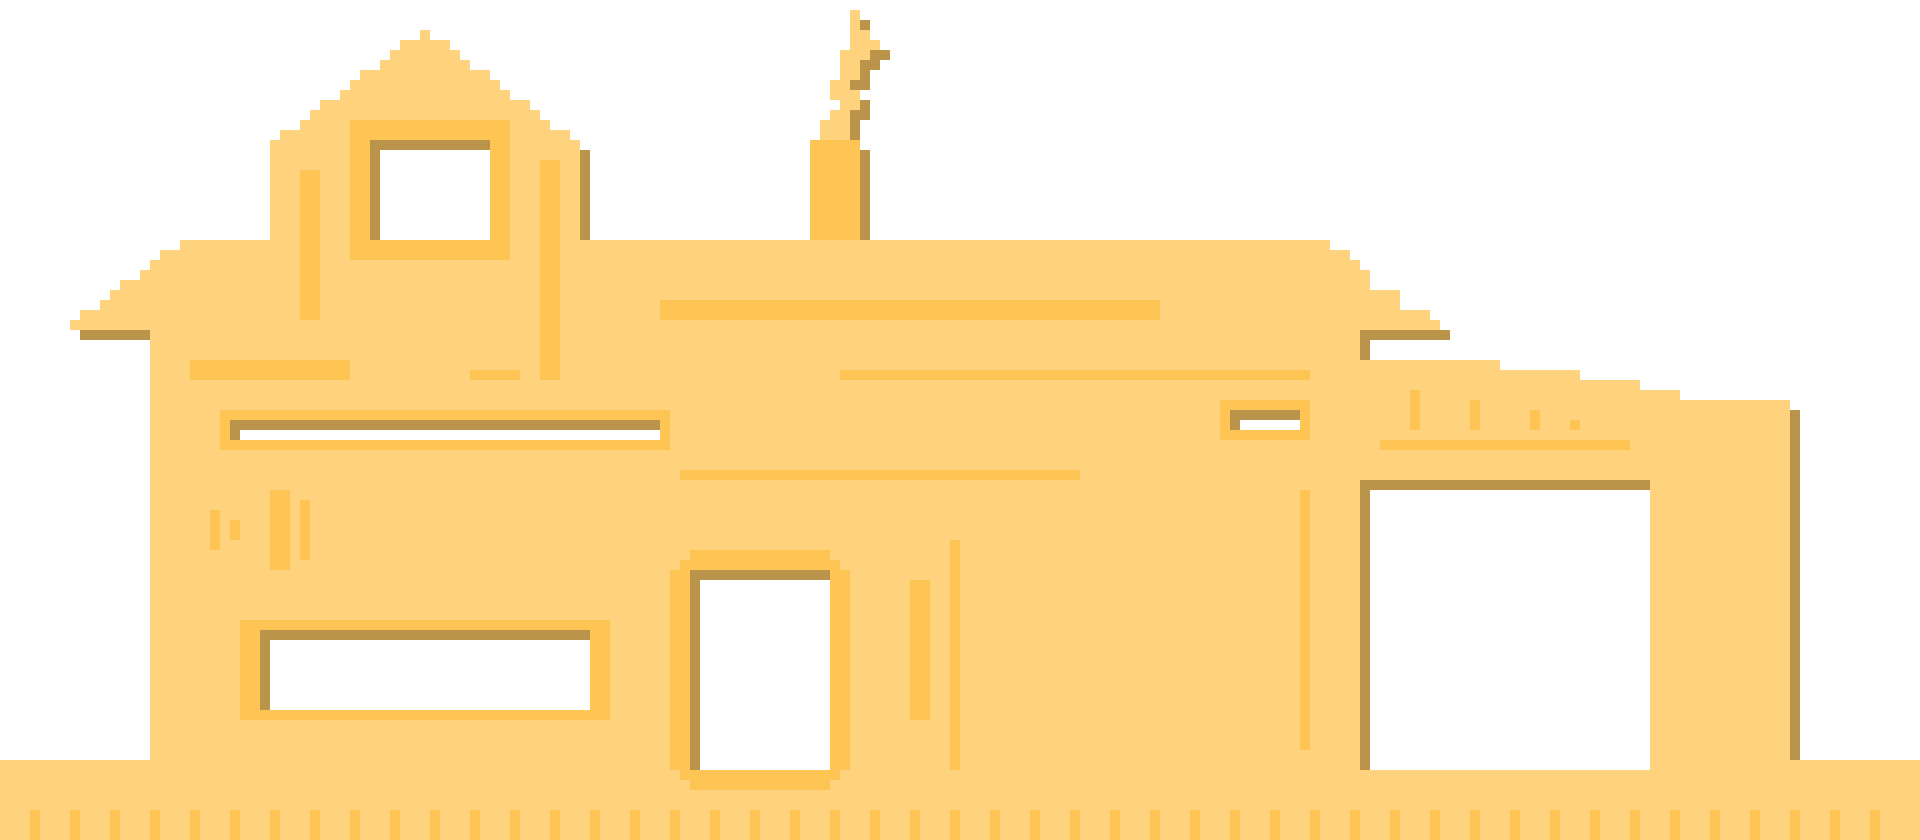
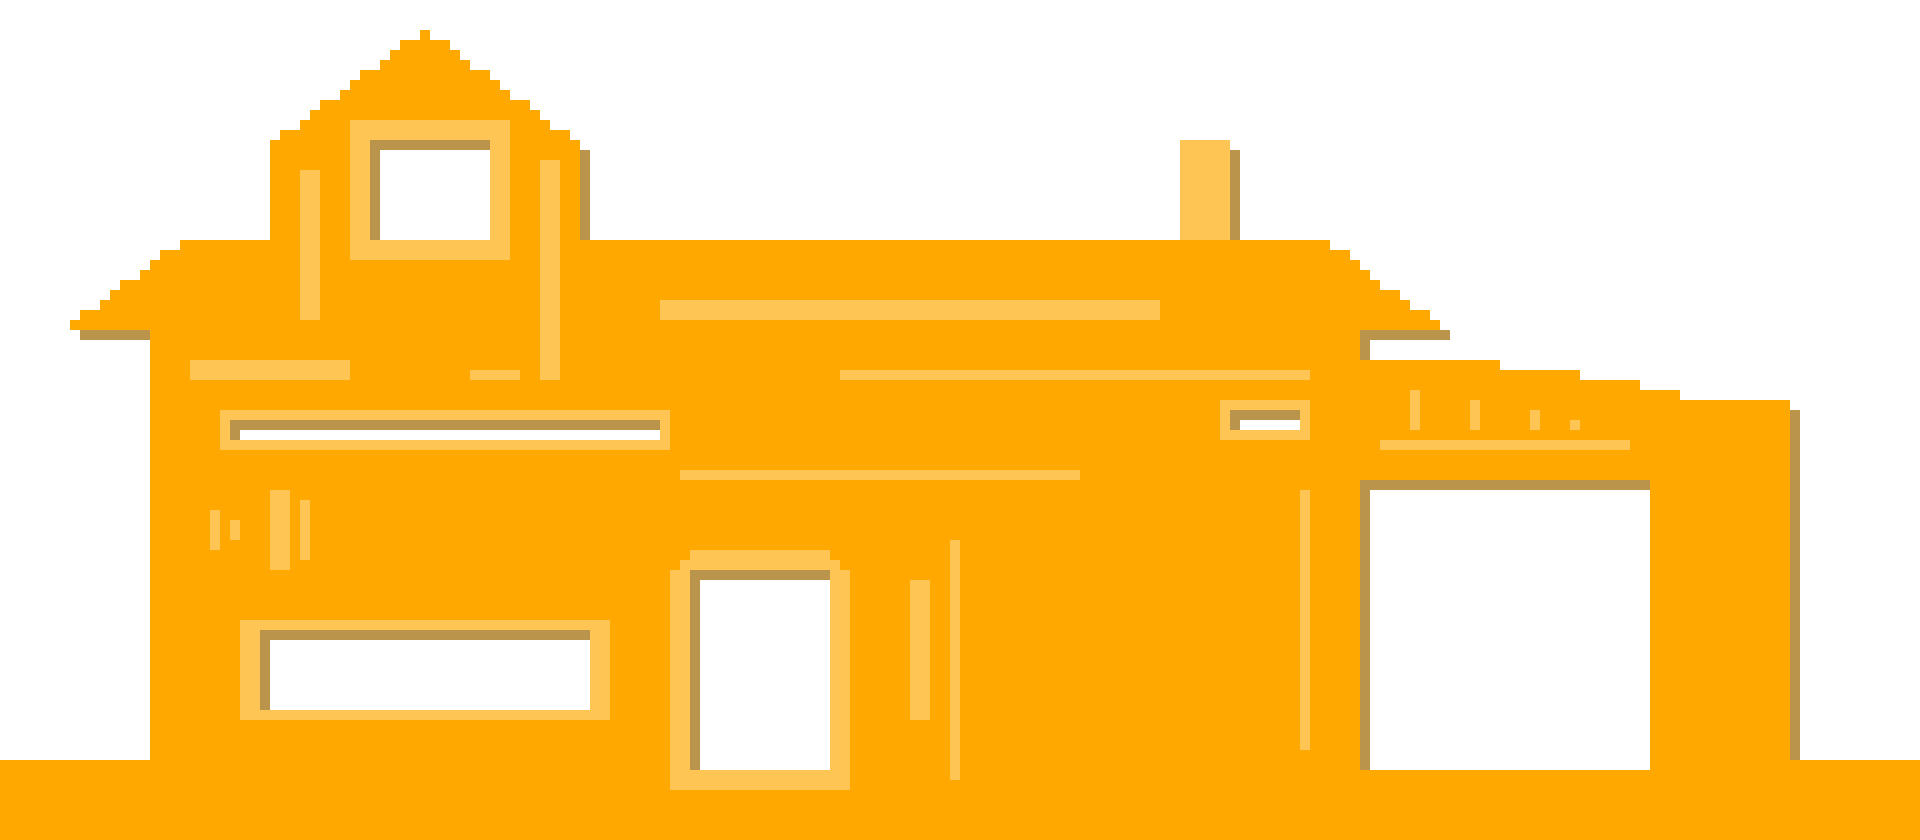
Redesigned 1st level, put in platforms. Jump around. Wheeeee!

diff --git a/index.html b/index.html
@@ -39,6 +39,7 @@
         var barriersCollisionGroup;
         
         var platforms;
+        var platformColor;
         
         // Phaser functions
                 
@@ -64,7 +65,7 @@
             game.physics.arcade.collide(player, platforms);
             
             
-            if (player.body.touching.down) {
+            if (player.body.touching.down) { // On the ground or a platform
                 if (cursors.left.isDown && player.body.velocity.x > -150 && !cursors.right.isDown) {
                     if (player.body.velocity.x > 0) { player.body.velocity.x = 0;}
                     player.body.velocity.x -= 30;
@@ -83,7 +84,7 @@
 
                 
                 if (cursors.up.isDown) {
-                    player.body.velocity.y = -220;
+                    player.body.velocity.y = -230;
                 }
                 
             } else { // In the air
@@ -119,9 +120,8 @@
             game.physics.arcade.enable(player);
             
             player.body.bounce.y = 0.1;
-            player.body.gravity.y = 600;
+            player.body.gravity.y = 580;
             player.body.collideWorldBounds = true;
-            player.body.maxVelocity.x = 180;
             
             return player;
         }
@@ -136,15 +136,27 @@
                 case 0: // Level 0 : Homestead
                     // Ground
                     makeBarrier(0, 77, 192, 7);
-                    makeBarrier(22, 76, 42, 1);
-                    makeBarrier(24, 75, 36, 1);
-                    makeBarrier(32, 74, 11, 1);
-                    makeBarrier(34, 73, 5, 1);
                     
                     // Walls
-                    makeBarrier(0, 17, 5, 60);
-                    makeBarrier(8, 50, 5, 27);
-                    makeBarrier(171, 44, 6, 33);
+                    makeBarrier(0, 17, 5, 27);
+                    makeBarrier(0, 44, 18, 7);
+                    makeBarrier(0, 51, 7, 20);
+                    makeBarrier(156, 69, 36, 8);
+                    makeBarrier(165, 62, 27, 7);
+                    makeBarrier(171, 43, 21, 19);
+                    makeBarrier(187, 9, 5, 34);
+                    
+                    // Stepped Levels
+                    makeBarrier(0, 71, 17, 1);
+                    makeBarrier(0, 72, 19, 1);
+                    makeBarrier(0, 73, 21, 1);
+                    makeBarrier(0, 74, 26, 1);
+                    makeBarrier(0, 75, 61, 1);
+                    makeBarrier(0, 76, 63, 1);
+                    
+                    makeBarrier(179, 40, 13, 1);
+                    makeBarrier(177, 41, 15, 1);
+                    makeBarrier(173, 42, 19, 1);
                     
                     break;
             }
@@ -165,13 +177,20 @@
         }
             
         function addPlatforms(level) {
-            var colour;
             platforms = game.add.group();
             platforms.enableBody = true;
             switch (level) {
                 case 0: // Level 0 : Homestead
-                    colour = 0xe88500;
-                    makePlatform(34, 33, 18, colour);
+                    platformColour = 0xe76600;
+                    makePlatform(34, 33, 18);
+                    makePlatform(65, 26, 60);
+                    makePlatform(132, 32, 12);
+                    makePlatform(121, 39, 11);
+                    makePlatform(105, 43, 15);
+                    makePlatform(96, 51, 7);
+                    makePlatform(106, 56, 5);
+                    makePlatform(114, 62, 7);
+                    makePlatform(124, 69, 5);
                     
                     
                     break;
@@ -179,17 +198,17 @@
             
         }
         
-        function makePlatform(xPos, yPos, length, colour) {
+        function makePlatform(xPos, yPos, length) {
             var platform = platforms.create(xPos*5, yPos*5, 'platform');
             platform.scale.setTo(length, 1);
-            platform.tint = colour;
+            platform.tint = platformColour;
             platform.body.immovable = true;
         }
             
         function addBase(level) {
             game.add.sprite(0, 0, 'l' + level + 'base').scale.setTo(0.5,0.5);
             switch (level) {
-                case 0: game.stage.backgroundColor = '#ffb420'; break;
+                case 0: game.stage.backgroundColor = '#fdde95'; break;
             }
         }
         
